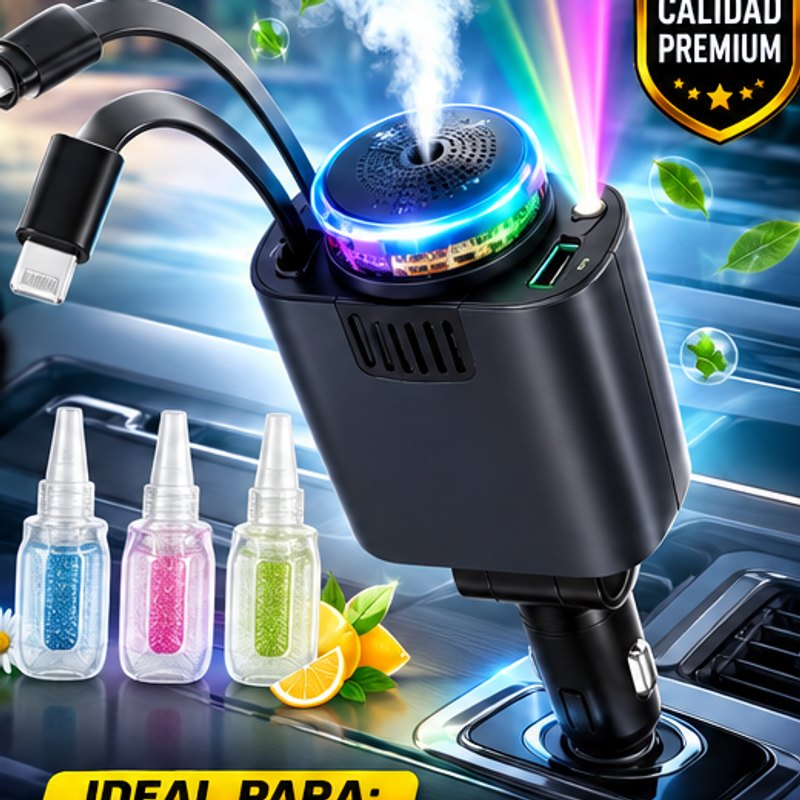
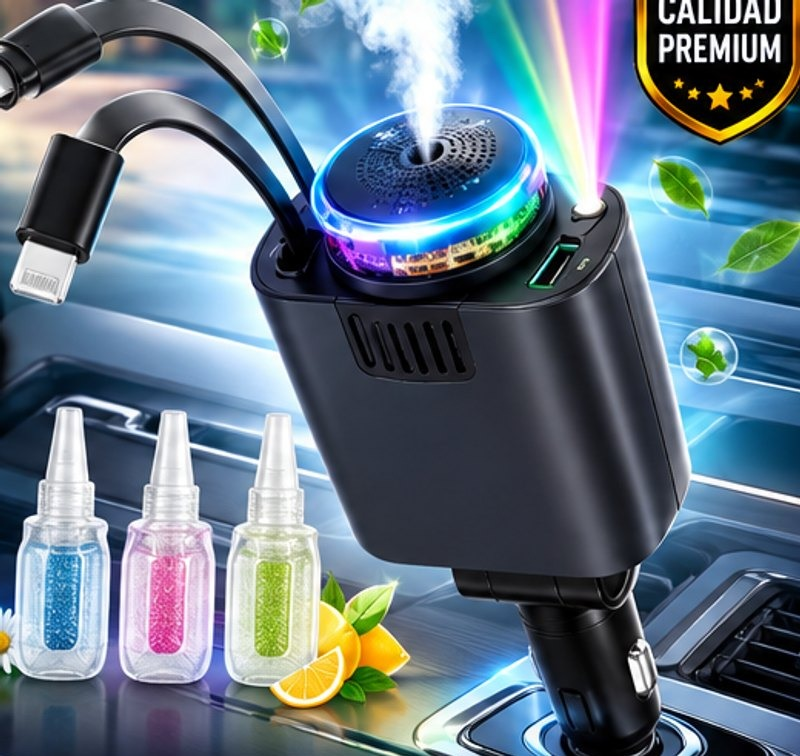
Bajar precios y limpiar la imagen del cargador
PRECIOS. Bajados los 11 productos, con el margen calculado sobre todos
los costos reales, no solo el del producto:

  flete            $10.000  (tarifa Dropi Colombia, rango 8-12k)
  comision Dropi   5% del precio de venta
  tasa de entrega  75% (devolucion 25%, rango tipico urbano)
  CPC actual       $141 (108.551 / 766 clics)

El calculo clave: la publicidad se paga por el 100% de los pedidos
generados, pero solo entrega el 75%. Calcular el margen sobre los que si
llegan es el error que quiebra tiendas de contraentrega.

  Game Stick    $159.900 -> $119.900   margen $44.405   equilibrio 0,42%
  Cargador       $99.900 ->  $89.900   margen $25.905   equilibrio 0,73%

Los 11 quedan entre 0,42% y 1,28% de conversion de equilibrio. Los
accesorios de moto son los mas justos: por debajo de $60.000 el margen
no alcanza a pagar la publicidad, y solo rinden dentro de combos.

Los "antes" tachados tambien se bajaron. Un ancla de $249.900 sobre algo
que se consigue a $90.000 no da urgencia, da desconfianza.

COMBOS recalculados: su originalPrice es la suma de los productos, y sin
recalcular quedaba mintiendo. Se conservo el descuento de cada uno.

BASE DE DATOS actualizada en el mismo movimiento. Si solo se cambia el
codigo, la web cotiza un precio y el bot otro.

IMAGEN. cargador-aromatizante-carro.jpg venia truncada de origen: 800x800
con "IDEAL PARA:" cortado a la mitad en el borde inferior. No se puede
recuperar lo que no esta en el archivo, pero se recorto a 800x756 justo
[…]

diff --git a/src/lib/promotions.ts b/src/lib/promotions.ts
@@ -17,9 +17,9 @@ export const ACTIVE_PROMOTIONS: PromotionCombo[] = [
     tagline: "¡Soporte + Cargador + Candado Antirrobo!",
     description: "Todo lo que tu moto necesita en un solo pedido. Soporte impermeable con pantalla táctil para que uses el GPS sin mojar el celular, cargador rápido QC 3.0 con voltímetro para que nunca te quedes sin batería, y candado de manubrio de acero que bloquea el freno para que nadie te la lleve. Los tres esenciales que todo motero termina comprando por separado y más caro.",
     productIds: ["soporte-holder-moto", "cargador-celular-moto", "candado-moto-manubrio"],
-    originalPrice: 185700,
-    promoPrice: 155900,
-    discountPercentage: 16,
+    originalPrice: 169700,
+    promoPrice: 139900,
+    discountPercentage: 18,
     badge: "El Más Vendido 🏍🔥"
   },
   {
@@ -28,9 +28,9 @@ export const ACTIVE_PROMOTIONS: PromotionCombo[] = [
     tagline: "¡Soporte Táctil + Cargador Rápido QC 3.0!",
     description: "El dúo básico que no te puede faltar. Soporte impermeable con rotación 360° y funda táctil para navegar con el GPS bajo lluvia, más cargador rápido con voltímetro digital para monitorear la batería de tu moto en tiempo real. Instalación en minutos.",
     productIds: ["soporte-holder-moto", "cargador-celular-moto"],
-    originalPrice: 119800,
-    promoPrice: 99900,
-    discountPercentage: 17,
+    originalPrice: 109800,
+    promoPrice: 89900,
+    discountPercentage: 18,
     badge: "Arranca Por Aquí ⚡"
   },
   {
@@ -39,9 +39,9 @@ export const ACTIVE_PROMOTIONS: PromotionCombo[] = [
     tagline: "¡Carpa Cobertor + Aspiradora Inalámbrica!",
     description: "Tu carro protegido por fuera y limpio por dentro. Carpa cobertor impermeable talla M que lo blinda del sol, la lluvia, el polvo y los rayos UV, más aspiradora de mano inalámbrica de succión potente con filtro lavable para dejar la cojinería y los tapetes como nuevos. Sin cables, sin excusas.",
     productIds: ["carpa-cobertor-carro", "aspiradora-de-mano"],
-    originalPrice: 167800,
-    promoPrice: 139900,
-    discountPercentage: 17,
+    originalPrice: 154800,
+    promoPrice: 129900,
+    discountPercentage: 16,
     badge: "Cuida Tu Inversión 🚗✨"
   },
   {
@@ -50,9 +50,9 @@ export const ACTIVE_PROMOTIONS: PromotionCombo[] = [
     tagline: "¡Iniciador de Batería + Aspiradora de Mano!",
     description: "No vuelvas a quedarte varado. Iniciador de batería inteligente 12V con tecnología Pulse Repair que carga, repara y arranca tu carro, camioneta o moto, más aspiradora inalámbrica para mantener el interior impecable mientras esperas. El kit que te saca del apuro a cualquier hora.",
     productIds: ["iniciador-de-bateria", "aspiradora-de-mano"],
-    originalPrice: 187800,
-    promoPrice: 155900,
-    discountPercentage: 17,
+    originalPrice: 169800,
+    promoPrice: 139900,
+    discountPercentage: 18,
     badge: "Tranquilidad en Carretera 🔋🚨"
   },
   {
@@ -61,9 +61,9 @@ export const ACTIVE_PROMOTIONS: PromotionCombo[] = [
     tagline: "¡Mini Pulidora 19.000 RPM + Iniciador de Batería!",
     description: "Monta tu taller sin gastar una fortuna. Mini pulidora inalámbrica de 12V y hasta 19.000 RPM con disco de 115mm para cortar, pulir, desbastar y limpiar metal, acero y madera, más iniciador de batería inteligente con Pulse Repair. Potencia profesional en tus manos, sin cables que te estorben.",
     productIds: ["mini-pulidora-inalambrica", "iniciador-de-bateria"],
-    originalPrice: 213800,
-    promoPrice: 179900,
-    discountPercentage: 16,
+    originalPrice: 194800,
+    promoPrice: 164900,
+    discountPercentage: 15,
     badge: "Favorito de Técnicos 🛠"
   },
   {
@@ -72,9 +72,9 @@ export const ACTIVE_PROMOTIONS: PromotionCombo[] = [
     tagline: "¡Selfie Stick con Luz LED + Carga Magnética 3 en 1!",
     description: "Graba como profesional y nunca te quedes sin batería. Selfie stick trípode con luz LED regulable de 3 niveles, rotación 360° y control remoto Bluetooth hasta 10 metros, más soporte de carga magnética 3 en 1 de 15W que carga celular, audífonos y reloj al mismo tiempo. Del set a la mesa sin cables.",
     productIds: ["selfie-stick-tripode", "soporte-de-carga-magnetica"],
-    originalPrice: 260800,
-    promoPrice: 219900,
-    discountPercentage: 16,
+    originalPrice: 239800,
+    promoPrice: 199900,
+    discountPercentage: 17,
     badge: "Modo Creador 🎥💡"
   },
   {
@@ -83,9 +83,9 @@ export const ACTIVE_PROMOTIONS: PromotionCombo[] = [
     tagline: "¡Game Stick Retro 4K + Carga Magnética 15W!",
     description: "Arma tu rincón gamer completo. Consola Game Stick Retro M8 con salida 4K HD, 64GB y más de 10.000 juegos clásicos con 2 controles inalámbricos incluidos, más soporte de carga magnética 3 en 1 de 15W para tener el celular, los audífonos y el reloj siempre cargados mientras juegas. Conecta el HDMI y listo.",
     productIds: ["game-stick-retro-m8", "soporte-de-carga-magnetica"],
-    originalPrice: 280800,
-    promoPrice: 234900,
-    discountPercentage: 16,
+    originalPrice: 229800,
+    promoPrice: 194900,
+    discountPercentage: 15,
     badge: "Nostalgia en 4K 🎮🔥"
   },
   // Los dos que siguen venian sueltos dentro del popup de entrada (PromoFlow) con
@@ -98,8 +98,8 @@ export const ACTIVE_PROMOTIONS: PromotionCombo[] = [
     tagline: "¡Carga Magnética + Iniciador de Batería + Carpa Cobertor!",
     description: "Todo lo que tu carro necesita en un solo pedido. Soporte de carga magnética 3 en 1 de 15W para que nunca manejes sin batería ni GPS, iniciador inteligente 12V con Pulse Repair para que no te deje tirado un lunes por la mañana, y carpa cobertor impermeable que lo protege del sol que le quema la pintura y de cada aguacero. Los tres esenciales que todo dueño de carro termina comprando por separado y más caro.",
     productIds: ["soporte-de-carga-magnetica", "iniciador-de-bateria", "carpa-cobertor-carro"],
-    originalPrice: 280700,
-    promoPrice: 229900,
+    originalPrice: 254700,
+    promoPrice: 209900,
     discountPercentage: 18,
     badge: "Tu Carro Cubierto 🚗🔋"
   },
@@ -109,8 +109,8 @@ export const ACTIVE_PROMOTIONS: PromotionCombo[] = [
     tagline: "¡Game Stick 4K + Aspiradora + Mini Pulidora!",
     description: "El combo para la casa completa. Consola Game Stick Retro M8 con salida 4K y más de 10.000 juegos clásicos para las noches en familia, aspiradora de mano inalámbrica que saca la arena y las migas donde el trapo no llega, y mini pulidora de 19.000 RPM para los arreglos que siempre quedan pendientes. Tres aparatos que se usan todas las semanas.",
     productIds: ["game-stick-retro-m8", "aspiradora-de-mano", "mini-pulidora-inalambrica"],
-    originalPrice: 381700,
-    promoPrice: 299900,
+    originalPrice: 324700,
+    promoPrice: 254900,
     discountPercentage: 21,
     badge: "El Más Completo 📱🔥"
   },
@@ -120,8 +120,8 @@ export const ACTIVE_PROMOTIONS: PromotionCombo[] = [
     tagline: "¡Cargador Aromatizante 4 en 1 + Aspiradora Inalámbrica!",
     description: "Deja el interior de tu carro como recién salido del concesionario. La aspiradora de mano saca la arena de entre los asientos y las migas que el trapo no alcanza, y el cargador aromatizante se encarga de lo demás: mantiene el aire fresco con su difusor, ordena los cables con sus dos cables retráctiles y le pone luces LED al tablero. Limpio, con buen olor y sin un solo cable suelto. El cargador incluye además 3 esencias de regalo.",
     productIds: ["cargador-aromatizante-carro", "aspiradora-de-mano"],
-    originalPrice: 197800,
-    promoPrice: 164900,
+    originalPrice: 179800,
+    promoPrice: 149900,
     discountPercentage: 17,
     badge: "Interior de Lujo 🚗✨"
   }

diff --git a/src/components/LandingPage.tsx b/src/components/LandingPage.tsx
@@ -51,8 +51,8 @@ export const TRENDING_PRODUCTS = [
     name: "Modulador Cargador Aromatizante 4 en 1",
     category: "Autos",
     description: "Cables enredados y olor a encierro, resueltos de una. Carga 4 dispositivos con cables que se recogen solos, aromatiza y da luces RGB. Incluye 3 esencias.",
-    price: 99900,
-    originalPrice: 159900,
+    price: 89900,
+    originalPrice: 139900,
     imageUrl: "/images/cargador-aromatizante-carro.jpg",
     rating: 4.9,
     reviews: 87,
@@ -64,8 +64,8 @@ export const TRENDING_PRODUCTS = [
     name: "Soporte de Carga Magnética",
     category: "Autos",
     description: "Deja de pelear con tres cables. Pega el celular y carga solo, junto a tus audífonos y tu reloj. Se dobla y cabe en el bolsillo.",
-    price: 120900,
-    originalPrice: 189900,
+    price: 109900,
+    originalPrice: 169900,
     imageUrl: "/images/soporte-de-carga-magnetica.png",
     rating: 4.9,
     reviews: 214,
@@ -77,8 +77,8 @@ export const TRENDING_PRODUCTS = [
     name: "Carpa Cobertor para Carro Talla M",
     category: "Autos",
     description: "Tu carro duerme en la calle. Esta carpa lo protege del sol que le quema la pintura, del aguacero y de la mugre de los árboles.",
-    price: 69900,
-    originalPrice: 119900,
+    price: 64900,
+    originalPrice: 99900,
     imageUrl: "/images/carpa-cobertor-carro.png",
     rating: 4.7,
     reviews: 121,
@@ -90,8 +90,8 @@ export const TRENDING_PRODUCTS = [
     name: "Soporte Holder para Moto Cremallera RC",
     category: "Motos",
     description: "Manejar mirando el GPS en la mano es como llegas a un accidente. Aquí va fijo, y funciona la pantalla aunque esté lloviendo.",
-    price: 59900,
-    originalPrice: 99900,
+    price: 54900,
+    originalPrice: 89900,
     imageUrl: "/images/soporte-holder-moto.png",
     rating: 4.8,
     reviews: 133,
@@ -103,8 +103,8 @@ export const TRENDING_PRODUCTS = [
     name: "Game Stick Retro M8",
     category: "Tecnología",
     description: "Más de 10.000 juegos de tu infancia en el televisor de la sala. Conectas el HDMI y en un minuto estás jugando, con 2 controles.",
-    price: 159900,
-    originalPrice: 249900,
+    price: 119900,
+    originalPrice: 189900,
     imageUrl: "/images/game-stick-retro-m8.png",
     rating: 4.9,
     reviews: 265,
@@ -116,8 +116,8 @@ export const TRENDING_PRODUCTS = [
     name: "Cargador de Celular para Moto",
     category: "Motos",
     description: "Quedarte sin batería a mitad de domicilio es quedarte sin GPS y sin llamadas. Carga 4 veces más rápido mientras ruedas.",
-    price: 59900,
-    originalPrice: 99900,
+    price: 54900,
+    originalPrice: 89900,
     imageUrl: "/images/cargador-celular-moto.png",
     rating: 4.9,
     reviews: 302,
@@ -129,8 +129,8 @@ export const TRENDING_PRODUCTS = [
     name: "Aspiradora de Mano Inalámbrica",
     category: "Tecnología",
     description: "La arena entre los asientos y las migas de los niños salen en dos minutos. Sin cables, sin ir hasta la lavada del carro.",
-    price: 97900,
-    originalPrice: 159900,
+    price: 89900,
+    originalPrice: 139900,
     imageUrl: "/images/aspiradora-de-mano.png",
     rating: 4.8,
     reviews: 178,
@@ -142,8 +142,8 @@ export const TRENDING_PRODUCTS = [
     name: "Mini Pulidora Inalámbrica",
     category: "Tecnología",
     description: "Corta, pule y desbasta metal, acero y madera sin buscar dónde enchufarla. Cabe en una mano y trae estuche.",
-    price: 123900,
-    originalPrice: 199900,
+    price: 114900,
+    originalPrice: 179900,
     imageUrl: "/images/mini-pulidora-inalambrica.png",
     rating: 4.9,
     reviews: 96,
@@ -155,8 +155,8 @@ export const TRENDING_PRODUCTS = [
     name: "Selfie Stick Trípode con Luz LED",
     category: "Tecnología",
     description: "Graba con luz de estudio y sin que te tiemble el pulso. Se para solo, gira 360° y disparas desde 10 metros.",
-    price: 139900,
-    originalPrice: 219900,
+    price: 129900,
+    originalPrice: 199900,
     imageUrl: "/images/selfie-stick-tripode.png",
     rating: 4.8,
     reviews: 87,
@@ -168,8 +168,8 @@ export const TRENDING_PRODUCTS = [
     name: "Candado para Moto Manubrio Seguridad RC",
     category: "Motos",
     description: "Se roban una moto y a los cinco minutos ya va lejos. Este candado bloquea el freno o el manubrio y no la mueven.",
-    price: 65900,
-    originalPrice: 109900,
+    price: 59900,
+    originalPrice: 94900,
     imageUrl: "/images/candado-moto-manubrio.png",
     rating: 4.8,
     reviews: 141,
@@ -181,8 +181,8 @@ export const TRENDING_PRODUCTS = [
     name: "Iniciador de Batería TC",
     category: "Autos",
     description: "Batería muerta a las 6 de la mañana y nadie que te dé corriente. Con esto arrancas tu carro solo, en un minuto.",
-    price: 89900,
-    originalPrice: 149900,
+    price: 79900,
+    originalPrice: 129900,
     imageUrl: "/images/iniciador-de-bateria.png",
     rating: 4.9,
     reviews: 110,
